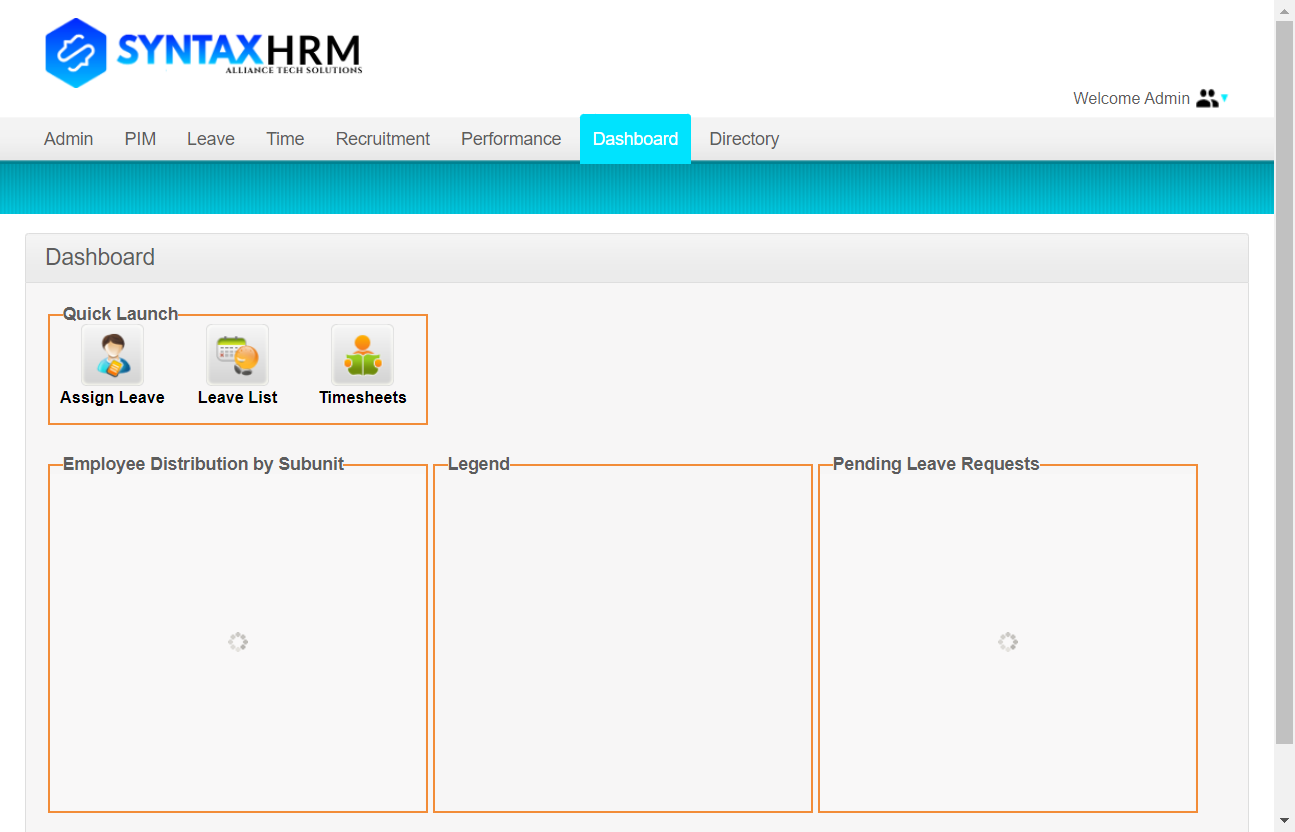
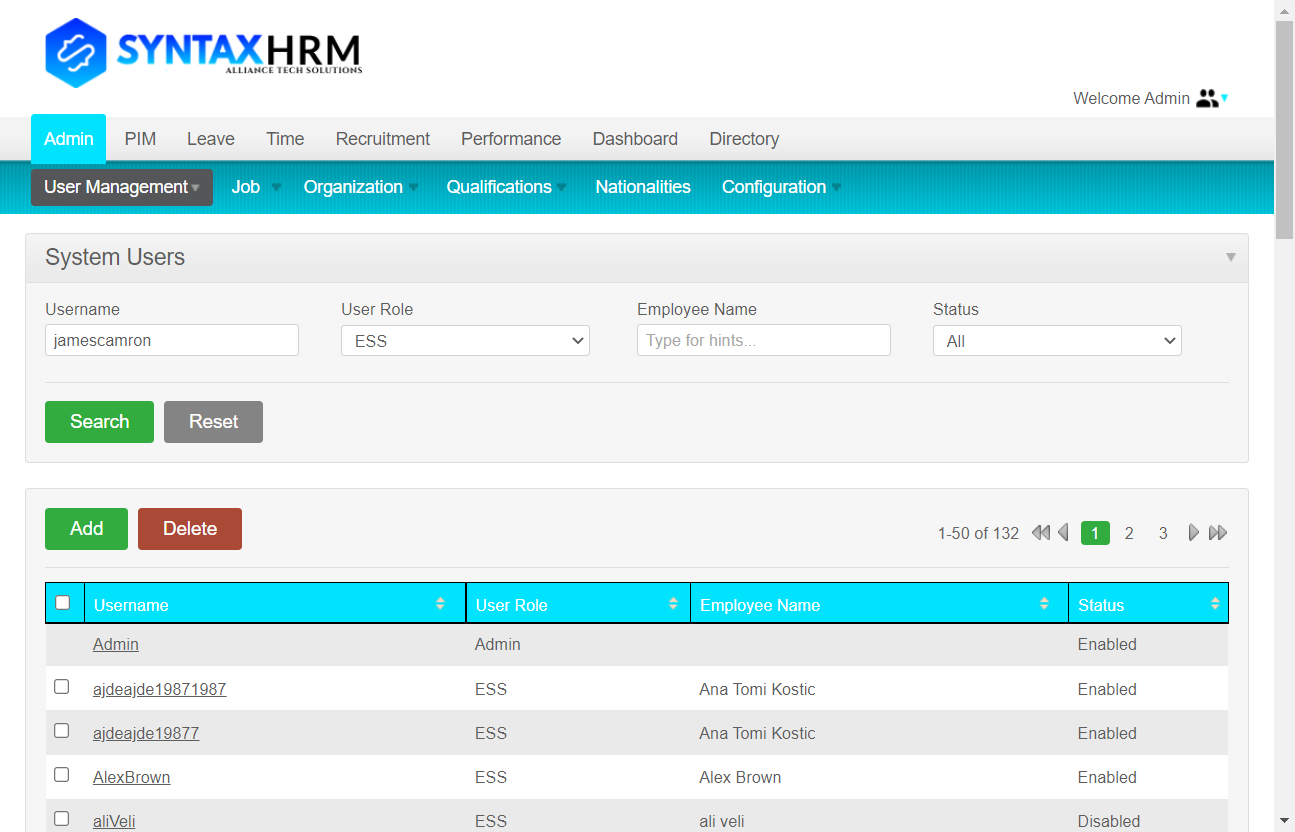
Homework POM

diff --git a/src/com/syntax/class01/PomeHomeWork/Task1Test.java b/src/com/syntax/class01/PomeHomeWork/Task1Test.java
@@ -1,7 +1,7 @@
 package com.syntax.class01.PomeHomeWork;
 
 import com.syntax.class01.Utils.CommonMethods;
-import com.syntax.class01.pages.LoginPage;
+import com.syntax.class01.pages.LoginPageWithPageFactory;
 import com.syntax.class01.testBase.BaseClass;
 import org.openqa.selenium.WebElement;
 
@@ -9,13 +9,13 @@ public class Task1Test {
     public static void main(String[] args) {
         BaseClass.openWithSpecificUrl("http://hrm.syntaxtechs.net/humanresources/symfony/web/index.php/dashboard");
 
-        LoginPage loginPage=new LoginPage();
-        WebElement username=loginPage.usernameField;
+        LoginPageWithPageFactory loginPage=new LoginPageWithPageFactory();
+        WebElement username=loginPage.username;
         CommonMethods.sendText(username,"Admin");
-        WebElement password= loginPage.passwordField;
+        WebElement password= loginPage.password;
         CommonMethods.sendText(password,"arjherknd");
         loginPage.loginBtn.click();
-        CommonMethods.takeTheScreenShot("Task1screenshot");
+        //CommonMethods.takeTheScreenShot("Task1screenshot");
         BaseClass.tearDown();
     }
 }

diff --git a/src/com/syntax/class01/POMHOMEWORK/PomTester.java b/src/com/syntax/class01/POMHOMEWORK/PomTester.java
@@ -1,0 +1,27 @@
+package com.syntax.class01.POMHOMEWORK;
+
+import com.syntax.class01.Utils.CommonMethods;
+import com.syntax.class01.pages.DashboardPage;
+import com.syntax.class01.pages.LoginPageWithPageFactory;
+import com.syntax.class01.testBase.BaseClass;
+import org.openqa.selenium.WebElement;
+
+public class PomTester {
+    public static void main(String[] args) {
+        BaseClass.openWithSpecificUrl("http://hrm.syntaxtechs.net/humanresources/symfony/web/index.php/dashboard");
+        LoginPageWithPageFactory login = new LoginPageWithPageFactory();
+        WebElement user = login.username;
+        CommonMethods.sendText(user, "Admin");
+
+        WebElement password = login.password;
+        CommonMethods.sendText(password, "Hum@nhrm123");
+        login.loginBtn.click();
+        PomLoginpage page = new PomLoginpage();
+        page.Admin.click();
+        page.validusername.sendKeys("jamescamron");
+        page.UserRole.sendKeys("ESS");
+        CommonMethods.takeTheScreenShot("Dashbordpage");
+        CommonMethods.tearDown();
+
+    }
+}

diff --git a/src/com/syntax/class01/POMHOMEWORK/PomLoginpage.java b/src/com/syntax/class01/POMHOMEWORK/PomLoginpage.java
@@ -1,0 +1,21 @@
+package com.syntax.class01.POMHOMEWORK;
+
+import com.syntax.class01.Utils.CommonMethods;
+import org.openqa.selenium.WebElement;
+import org.openqa.selenium.support.FindBy;
+import org.openqa.selenium.support.PageFactory;
+
+public class PomLoginpage extends CommonMethods {
+    @FindBy(id="menu_admin_viewAdminModule")
+    public WebElement Admin;
+    @FindBy(id="searchSystemUser_userName")
+    public WebElement validusername;
+    @FindBy(id="searchSystemUser_userType")
+    public WebElement UserRole;
+
+
+    public PomLoginpage(){
+        PageFactory.initElements(driver,this);
+    }
+
+}

diff --git a/src/com/syntax/class01/test/DashbordPageTest.java b/src/com/syntax/class01/test/DashbordPageTest.java
@@ -22,7 +22,7 @@ public class DashbordPageTest {
         login.loginBtn.click();
         // test the deshboard page for the welcome elemnt task
         DashboardPage dashboardPage=new DashboardPage();
-        WebElement massage=dashboardPage.WlcomeAdmin;
+        WebElement massage=dashboardPage.wlcomeAdmin;
         System.out.println(massage.getText());
         CommonMethods.takeTheScreenShot("Dashbordpage");
         BaseClass.tearDown();

diff --git a/src/com/syntax/class01/PomeHomeWork/DeshBordPageTest.java b/src/com/syntax/class01/PomeHomeWork/DeshBordPageTest.java
@@ -1,11 +1,8 @@
 package com.syntax.class01.PomeHomeWork;
 
 import com.syntax.class01.Utils.CommonMethods;
-import com.syntax.class01.pages.LoginPage;
 import com.syntax.class01.pages.LoginPageWithPageFactory;
 import com.syntax.class01.testBase.BaseClass;
-import org.openqa.selenium.By;
-import org.openqa.selenium.WebElement;
 
 public class DeshBordPageTest {
     public static void main(String[] args) {

diff --git a/src/com/syntax/class01/pages/DashboardPage.java b/src/com/syntax/class01/pages/DashboardPage.java
@@ -6,8 +6,8 @@ import org.openqa.selenium.support.FindBy;
 import org.openqa.selenium.support.PageFactory;
 
 public class DashboardPage extends CommonMethods {
-    @FindBy (id="menu_admin_viewAdminModule")
-    public WebElement WlcomeAdmin;
+    @FindBy (id="welcome")
+    public WebElement wlcomeAdmin;
 
     public DashboardPage(){
         PageFactory.initElements(driver,this);

diff --git a/src/com/syntax/class01/pages/LoginPageWithPageFactory.java b/src/com/syntax/class01/pages/LoginPageWithPageFactory.java
@@ -15,8 +15,8 @@ public class LoginPageWithPageFactory extends CommonMethods {
     @FindBy(id="btnLogin")
     public WebElement loginBtn;
 
-    @FindBy (id="menu_admin_viewAdminModule")
-    public  WebElement getLoginBtn;
+    @FindBy (id="welcome")
+    public  WebElement welcomeAdmin;
 
     public LoginPageWithPageFactory(){
         PageFactory.initElements(driver,this);

diff --git a/src/com/syntax/class01/test/LoginPageTest.java b/src/com/syntax/class01/test/LoginPageTest.java
@@ -1,7 +1,6 @@
 package com.syntax.class01.test;
 
 import com.syntax.class01.Utils.CommonMethods;
-import com.syntax.class01.pages.LoginPage;
 import com.syntax.class01.pages.LoginPageWithPageFactory;
 import com.syntax.class01.testBase.BaseClass;
 import org.openqa.selenium.WebElement;
